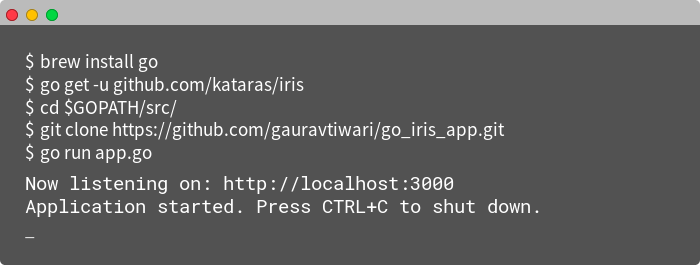
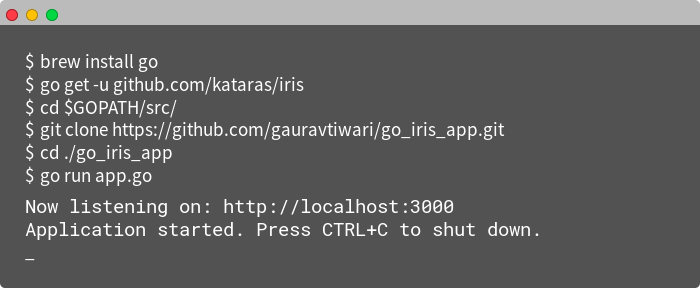
cd ./go_iris_app

Changed region(s): [[0.03, 0.1811, 0.78, 0.8453], [0.0, 0.0302, 1.0, 0.1208], [0.03, 0.8755, 0.06, 0.9057]]

diff --git a/readme.md b/readme.md
@@ -8,12 +8,15 @@
     * Using [Brew](https://brew.sh/).
     * Or by navigating to https://golang.org/dl.
 2. Download & Install [Iris](https://iris-go.com) using go get: `go get -u github.com/kataras/iris`
+3. Clone the repository.
+4. Run the web app: `go run app.go`
 
 ```bash
 $ brew install go
 $ go get -u github.com/kataras/iris
 $ cd $GOPATH/src/
 $ git clone https://github.com/iris-contrib/go_iris_app.git
+$ cd ./go_iris_app
 $ go run app.go
 ```
 
